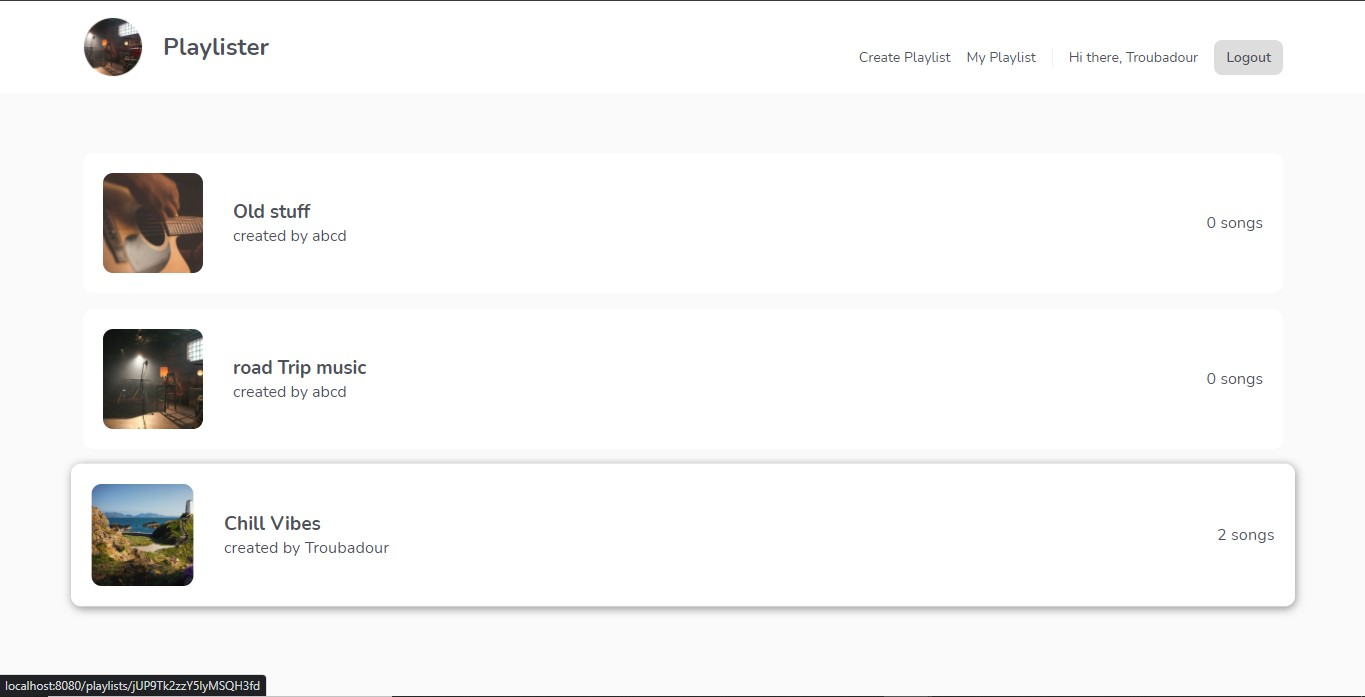
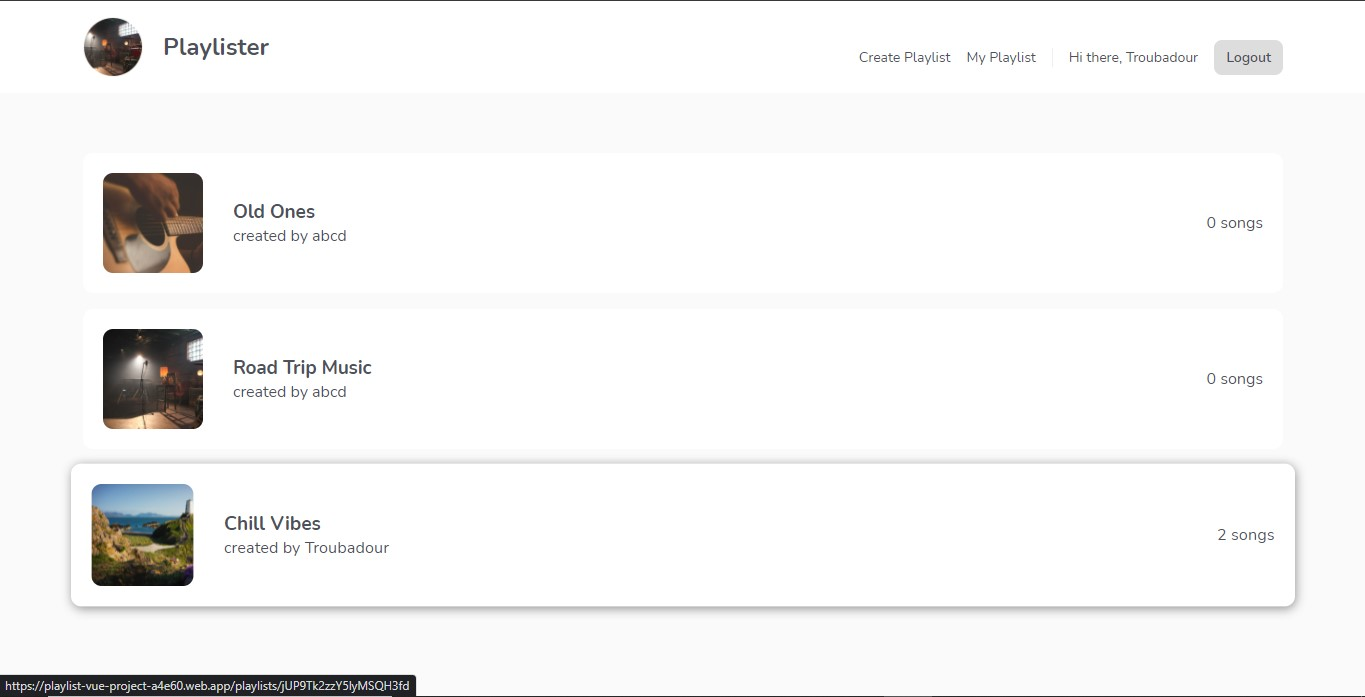
api key protection

Changed region(s): [[0.0, 0.9641, 0.3077, 1.0], [0.1538, 0.5122, 0.2769, 0.5423], [0.1846, 0.3013, 0.2462, 0.3314]]

diff --git a/src/firebase/config.js b/src/firebase/config.js
@@ -1,0 +1,27 @@
+import firebase from 'firebase/app'
+import 'firebase/firestore'
+import 'firebase/auth'
+import 'firebase/storage'
+import { continueStatement } from '@babel/types';
+
+const firebaseConfig = {
+    apiKey: process.env.VUE_APP_APIKEY,
+    authDomain: "playlist-vue-project-a4e60.firebaseapp.com",
+    projectId: "playlist-vue-project-a4e60",
+    storageBucket: "playlist-vue-project-a4e60.appspot.com",
+    messagingSenderId: "86661899605",
+    appId: "1:86661899605:web:2369e2cb358a762a3c3bdc"
+};
+
+// init firebase
+firebase.initializeApp(firebaseConfig)
+
+// init firebase
+const projectFirestore = firebase.firestore()
+const projectAuth = firebase.auth()
+const projectStorage = firebase.storage()
+
+// timestamp
+const timestamp = firebase.firestore.FieldValue.serverTimestamp
+
+export { projectFirestore, projectAuth, projectStorage, timestamp }
